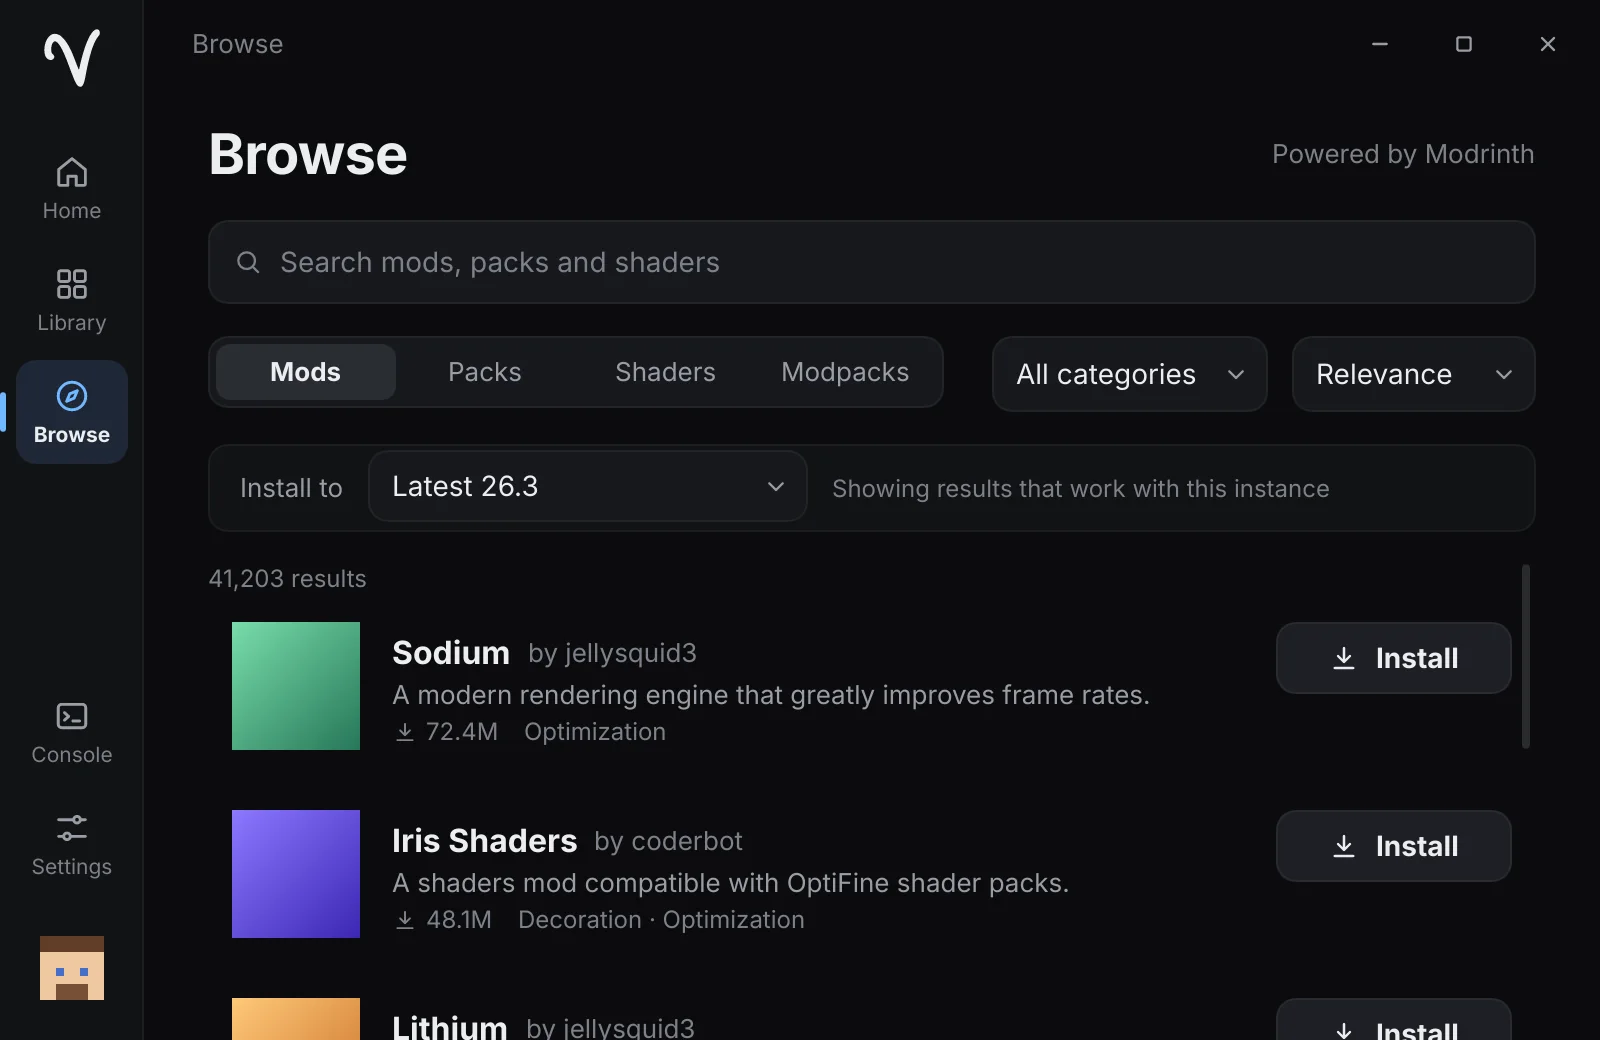
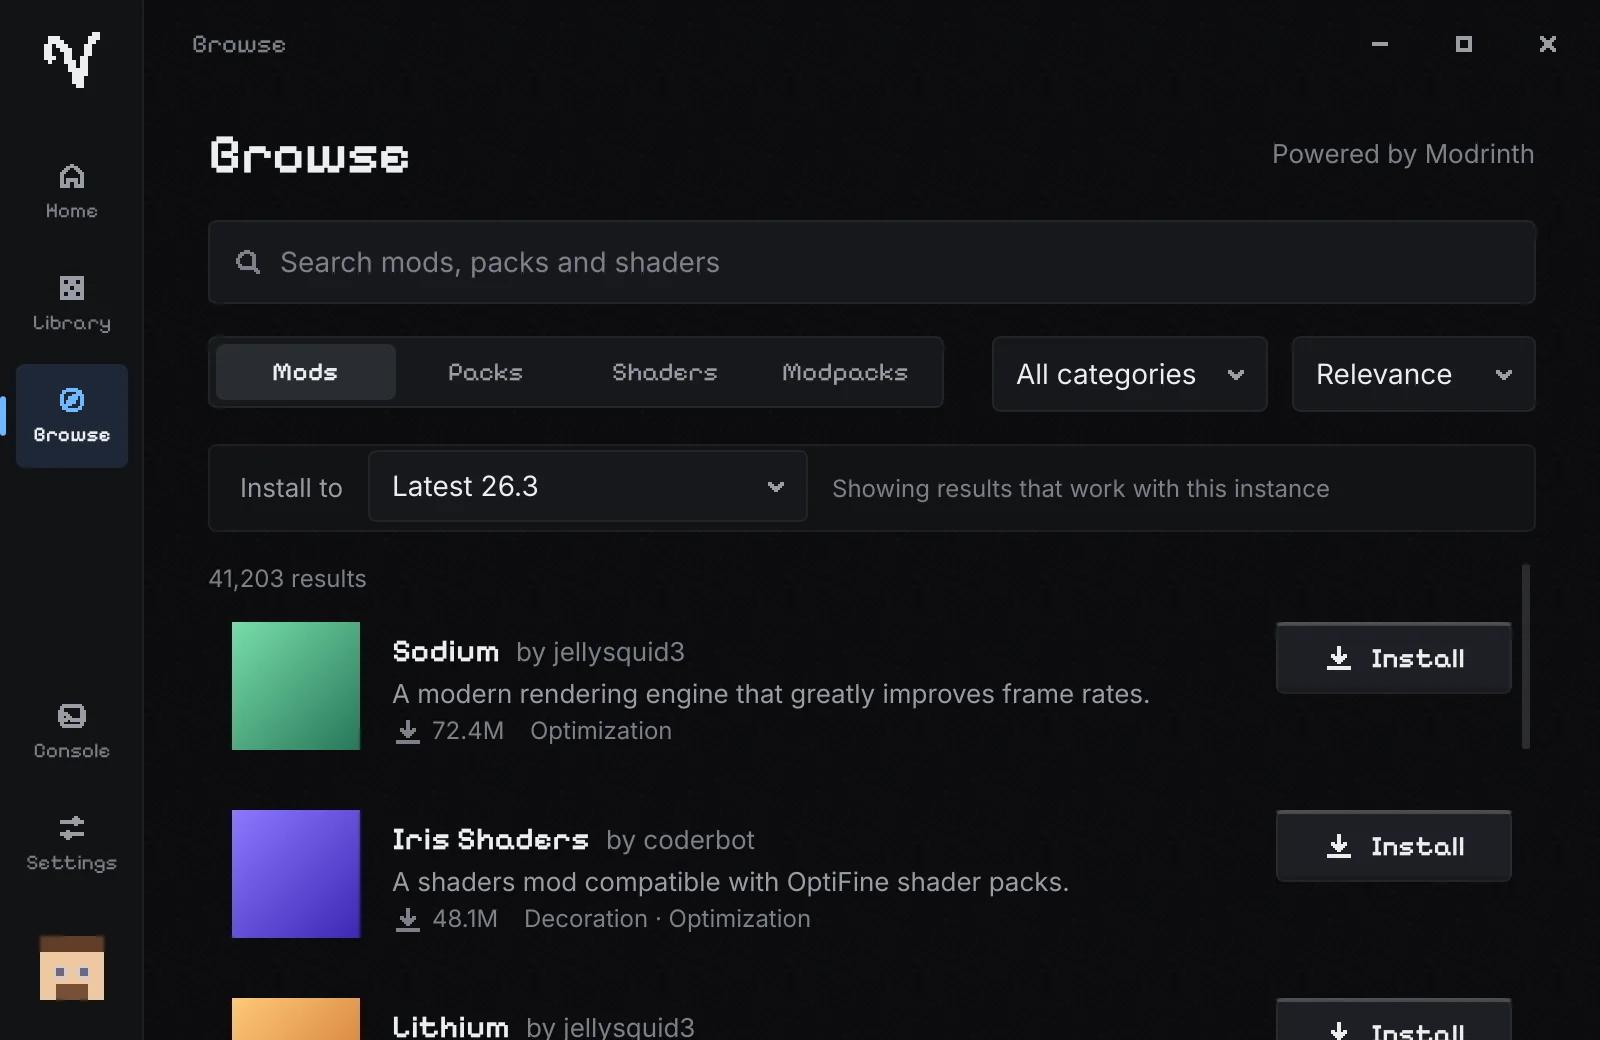
feat(ui): pixel look across the launcher
Pixelify Sans for titles, labels and buttons; pixel icons on a 16 px
grid; block-style buttons with a bevel and hard shadows; square
controls; a faint pixel grain; and a stepped pixel spinner.

diff --git a/web/index.html b/web/index.html
@@ -8,23 +8,23 @@
   <meta name="theme-color" content="#0b0c0e">
   <link rel="canonical" href="https://getvanta.xyz/">
   <link rel="icon" href="favicon.ico" sizes="any">
-  <link rel="icon" href="assets/favicon-32.png?v=0.1.5" sizes="32x32" type="image/png">
-  <link rel="apple-touch-icon" href="assets/apple-touch-icon.png?v=0.1.5">
+  <link rel="icon" href="assets/favicon-32.png?v=0.1.6" sizes="32x32" type="image/png">
+  <link rel="apple-touch-icon" href="assets/apple-touch-icon.png?v=0.1.6">
   <meta property="og:title" content="Vanta — a fast, minimal Minecraft launcher">
   <meta property="og:description" content="Native, tiny, instant. Mod loaders and Modrinth built in. Open source, no telemetry.">
   <meta property="og:image" content="https://getvanta.xyz/assets/screenshots/home.png">
   <meta property="og:type" content="website">
   <link rel="preload" href="assets/fonts/Inter-Regular.woff2" as="font" type="font/woff2" crossorigin>
   <link rel="preload" href="assets/fonts/Inter-Bold.woff2" as="font" type="font/woff2" crossorigin>
-  <link rel="stylesheet" href="assets/tokens.css?v=0.1.5">
-  <link rel="stylesheet" href="assets/site.css?v=0.1.5">
+  <link rel="stylesheet" href="assets/tokens.css?v=0.1.6">
+  <link rel="stylesheet" href="assets/site.css?v=0.1.6">
 </head>
 <body>
   <a class="skip" href="#main">Skip to content</a>
   <header class="nav">
     <div class="wrap nav-inner">
       <a class="brand" href="#" aria-label="Vanta home">
-        <img src="assets/logo.png?v=0.1.5" width="26" height="26" alt="">
+        <img src="assets/logo.png?v=0.1.6" width="26" height="26" alt="">
         <span>Vanta</span>
       </a>
       <nav id="site-nav" aria-label="Primary">
@@ -56,7 +56,7 @@
         </div>
         <p class="hint reveal" id="download-hint">Free forever. GPL-3.0.</p>
         <figure class="shot reveal">
-          <img src="assets/screenshots/home.webp?v=0.1.5" width="800" height="520" alt="The Vanta home screen showing the featured instance and a Play button" fetchpriority="high">
+          <img src="assets/screenshots/home.webp?v=0.1.6" width="800" height="520" alt="The Vanta home screen showing the featured instance and a Play button" fetchpriority="high">
         </figure>
       </div>
     </section>
@@ -90,12 +90,12 @@
     <section class="wrap section">
       <h2 class="reveal">A closer look</h2>
       <div class="gallery">
-        <figure class="reveal"><img src="assets/screenshots/library.webp?v=0.1.5" width="800" height="520" loading="lazy" alt="Library with instance cards"><figcaption>Library</figcaption></figure>
-        <figure class="reveal"><img src="assets/screenshots/browse.webp?v=0.1.5" width="800" height="520" loading="lazy" alt="Browsing mods from Modrinth"><figcaption>Browse Modrinth</figcaption></figure>
-        <figure class="reveal"><img src="assets/screenshots/instance.webp?v=0.1.5" width="800" height="520" loading="lazy" alt="Instance page with installed mods"><figcaption>Manage content</figcaption></figure>
-        <figure class="reveal"><img src="assets/screenshots/launching.webp?v=0.1.5" width="800" height="520" loading="lazy" alt="Play button filling with live download progress"><figcaption>Live progress</figcaption></figure>
-        <figure class="reveal"><img src="assets/screenshots/project.webp?v=0.1.5" width="800" height="520" loading="lazy" alt="Mod details inside Vanta"><figcaption>Install in one click</figcaption></figure>
-        <figure class="reveal"><img src="assets/screenshots/home-light.webp?v=0.1.5" width="800" height="520" loading="lazy" alt="Vanta in the light theme"><figcaption>Light theme</figcaption></figure>
+        <figure class="reveal"><img src="assets/screenshots/library.webp?v=0.1.6" width="800" height="520" loading="lazy" alt="Library with instance cards"><figcaption>Library</figcaption></figure>
+        <figure class="reveal"><img src="assets/screenshots/browse.webp?v=0.1.6" width="800" height="520" loading="lazy" alt="Browsing mods from Modrinth"><figcaption>Browse Modrinth</figcaption></figure>
+        <figure class="reveal"><img src="assets/screenshots/instance.webp?v=0.1.6" width="800" height="520" loading="lazy" alt="Instance page with installed mods"><figcaption>Manage content</figcaption></figure>
+        <figure class="reveal"><img src="assets/screenshots/launching.webp?v=0.1.6" width="800" height="520" loading="lazy" alt="Play button filling with live download progress"><figcaption>Live progress</figcaption></figure>
+        <figure class="reveal"><img src="assets/screenshots/project.webp?v=0.1.6" width="800" height="520" loading="lazy" alt="Mod details inside Vanta"><figcaption>Install in one click</figcaption></figure>
+        <figure class="reveal"><img src="assets/screenshots/home-light.webp?v=0.1.6" width="800" height="520" loading="lazy" alt="Vanta in the light theme"><figcaption>Light theme</figcaption></figure>
       </div>
     </section>
 
@@ -128,11 +128,11 @@
 
   <footer class="footer">
     <div class="wrap footer-inner">
-      <div class="brand"><img src="assets/logo.png?v=0.1.5" width="18" height="18" alt=""><span>Vanta</span></div>
+      <div class="brand"><img src="assets/logo.png?v=0.1.6" width="18" height="18" alt=""><span>Vanta</span></div>
       <p>NOT AN OFFICIAL MINECRAFT PRODUCT. NOT APPROVED BY OR ASSOCIATED WITH MOJANG OR MICROSOFT. Vanta downloads game files from official sources and never redistributes them.</p>
       <p><a href="https://github.com/Inpriv/vanta">GitHub</a> · <a href="https://github.com/Inpriv/vanta/blob/main/LICENSE">GPL-3.0-or-later</a> · <a href="https://github.com/Inpriv/vanta/blob/main/SECURITY.md">Security</a></p>
     </div>
   </footer>
-  <script src="assets/site.js?v=0.1.5" defer></script>
+  <script src="assets/site.js?v=0.1.6" defer></script>
 </body>
 </html>

diff --git a/docs/DESIGN.md b/docs/DESIGN.md
@@ -43,9 +43,24 @@ One accent at a time. Text on the accent uses `on-accent` (`bg` in dark mode, wh
 
 `accent-soft` is the accent at 14 % (12 % in light mode) for active navigation and selections.
 
+## Pixel style
+
+Vanta's look is built around its pixel-art block icons:
+
+- **Pixelify Sans** (SIL OFL 1.1) for titles, labels, tabs, buttons, badges and
+  notifications; Inter for longer reading text (descriptions, hints, logs).
+- **Pixel icons** on a 16 px grid (`ui/icons/px`, generated from the line
+  icons by `scripts/gen_pixel_icons.py`), always shown at 16 or 32 px with
+  nearest-neighbour scaling. The logo has pixel versions at 16 and 24 px.
+- **Block shapes**: small corner radii, a light 2 px top edge and a darker
+  3 px bottom lip on filled buttons, and hard (unblurred) pixel shadows.
+- **Pixel grain**: a faint tiled speckle texture over the window background.
+- **Stepped motion** where it fits the style: the loading screen and the
+  spinner move in discrete steps.
+
 ## Typography
 
-Inter (SIL OFL 1.1), bundled in Regular, Medium, SemiBold and Bold.
+Inter (SIL OFL 1.1) in Regular, Medium, SemiBold and Bold, and Pixelify Sans (SIL OFL 1.1) in Regular and SemiBold.
 
 | Token | Size | Typical weight |
 | --- | --- | --- |
@@ -60,7 +75,7 @@ Inter (SIL OFL 1.1), bundled in Regular, Medium, SemiBold and Bold.
 ## Spacing, radius, depth
 
 - Spacing follows a 4 px grid: `s1` 4 · `s2` 8 · `s3` 12 · `s4` 16 · `s5` 20 · `s6` 24 · `s8` 32 · `s10` 40 · `s12` 48.
-- Radius: `sm` 6 · `md` 10 · `lg` 14 · `xl` 20 px. Pills use half their height.
+- Radius: `sm` 3 · `md` 4 · `lg` 6 · `xl` 8 px. Pills use half their height.
 - Depth comes from surface steps, not borders. Shadows appear only on things
   that float: hovered cards (24 px blur, 8 px offset), popups and dialogs
   (24–48 px blur).

diff --git a/README.md b/README.md
@@ -30,6 +30,7 @@
 - **Offline accounts**: pick a username and play. The same name always maps to the same player UUID, so inventories and progress persist, including on friends' LAN worlds.
 - **Microsoft sign-in (coming soon in official builds)**: device code flow, multiple accounts, quick switching, automatic token refresh, tokens stored only in your OS keychain. It is fully implemented and works in builds made with an approved Azure client ID (see below); official releases will enable it once Vanta's app ID is approved. Online servers, skins and Realms need it. Please buy Minecraft to support Mojang.
 - **One Play button for everything**: it fills with live progress while files download (MB/s, files left), then turns into a "Playing · 12:03" control with Stop.
+- **Pixel look**: a pixel typeface, pixel icons, block-style buttons and a stepped loading screen, built around Vanta's pixel-art block icons.
 - **Make it yours**: 22 original pixel-art block icons (grass, diamond ore, TNT, obsidian…), the Vanta mark or a letter tile in your accent color, plus six accent colors and light/dark themes.
 - **Every version**: releases, snapshots and old betas/alphas from Mojang's official manifest.
 - **Mod loaders**: Fabric, Quilt, Forge and NeoForge, including Forge/NeoForge installer processors.
@@ -110,7 +111,7 @@ Contributions are welcome. Read [CONTRIBUTING.md](CONTRIBUTING.md) and the [Code
 
 ## License
 
-Vanta is licensed under the [GNU General Public License v3.0 or later](LICENSE). The bundled Inter typeface is licensed under the SIL Open Font License 1.1.
+Vanta is licensed under the [GNU General Public License v3.0 or later](LICENSE). The bundled Inter and Pixelify Sans typefaces are licensed under the SIL Open Font License 1.1.
 
 ---
 

diff --git a/CHANGELOG.md b/CHANGELOG.md
@@ -2,6 +2,14 @@
 
 All notable changes to Vanta are documented here. The format follows [Conventional Commits](https://www.conventionalcommits.org/).
 
+## 0.1.6 (2026-10-28)
+
+### New features
+
+- A new pixel look built around the block icons: Pixelify Sans for titles, labels and buttons, pixel icons, block-style buttons with hard shadows, square controls and a faint pixel grain
+- Pixel loading screen: the V builds up in steps, the name types in and a block bar fills
+- Pixel version of the Vanta logo and a stepped pixel spinner
+
 ## 0.1.5 (2026-10-28)
 
 ### New features
